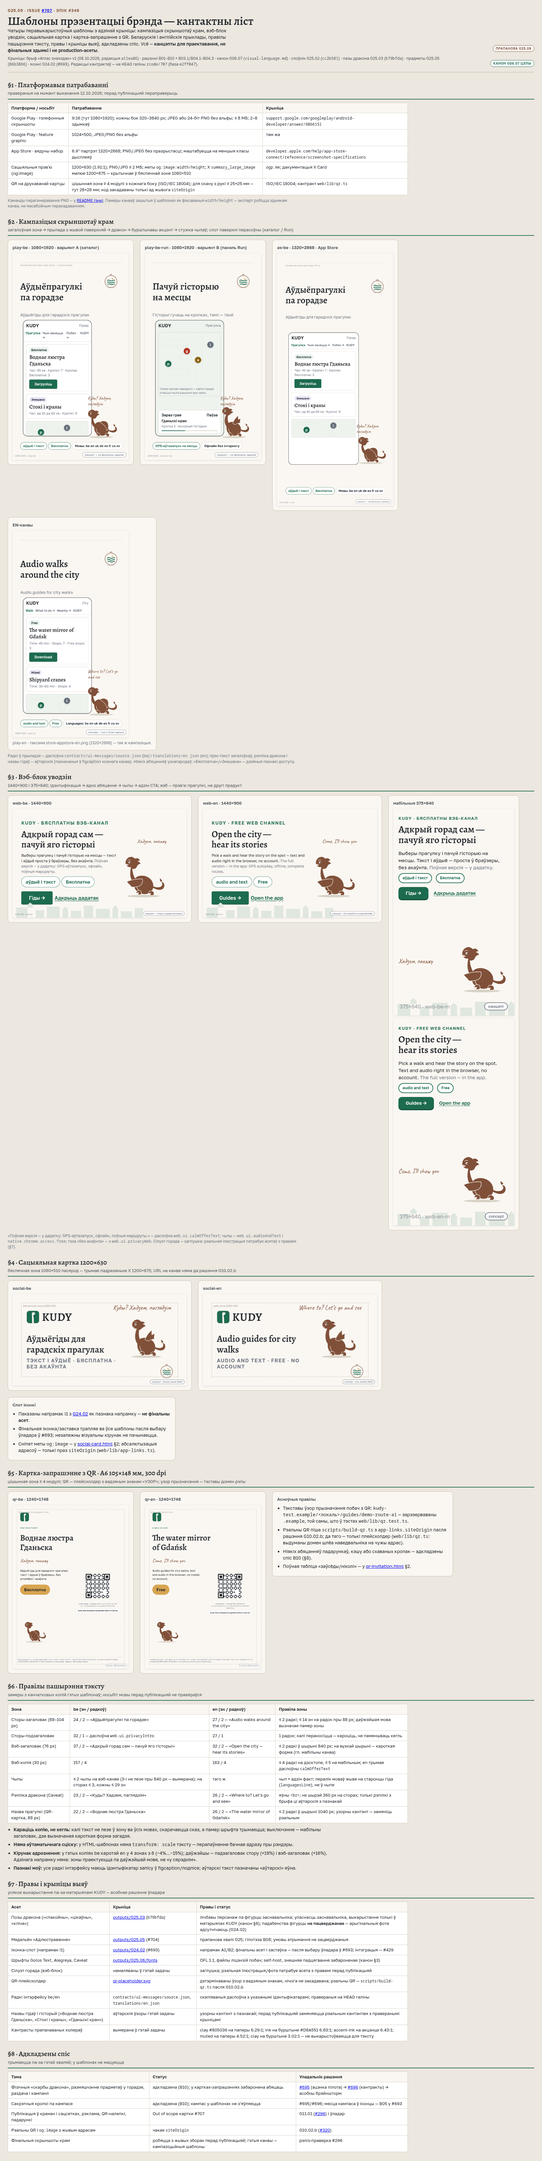
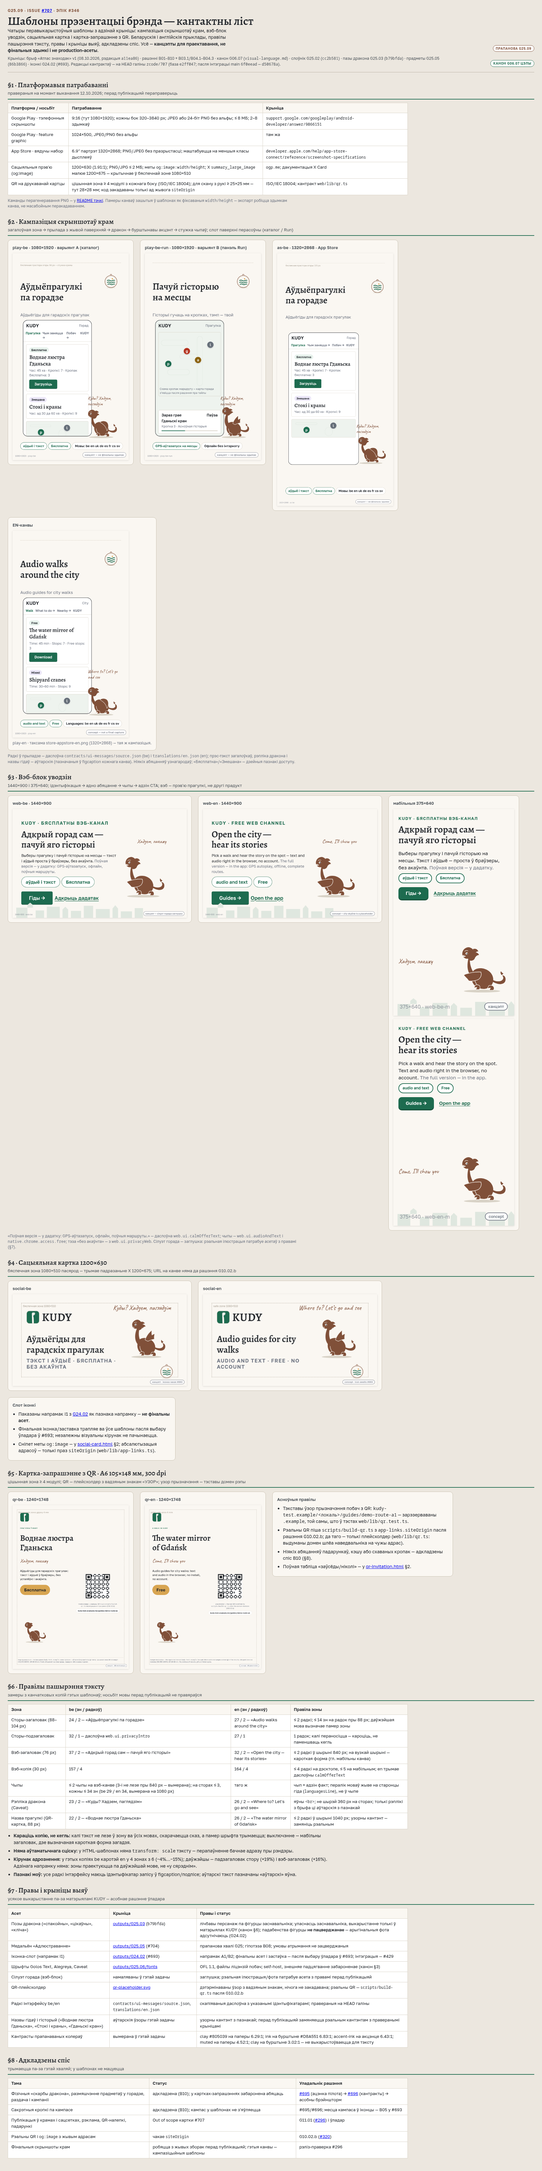
G25.09: review fixes - verbatim labels, contract id, measured chip bound, base note (PR review 741)

diff --git a/docs/design/brand/outputs/G25.09/contact-sheet.html b/docs/design/brand/outputs/G25.09/contact-sheet.html
@@ -45,7 +45,7 @@ ul.rules li{margin-bottom:6px}
       <div class="eyebrow">G25.09 · issue <a href="https://github.com/vokhandcrafts/KUDY/issues/707">#707</a> · эпік #346</div>
       <h1>Шаблоны прэзентацыі брэнда — кантактны ліст</h1>
       <p>Чатыры перавыкарыстоўныя шаблоны з адзінай крыніцы: кампазіцыя скрыншотаў крам, вэб-блок уводзін, сацыяльная картка і картка-запрашэнне з QR. Беларускія і англійскія прыклады, правілы пашырэння тэксту, правы і крыніцы выяў, адкладзены спіс. Усё — <b>канцэпты для праектавання, не фінальныя здымкі і не production-асеты</b>.</p>
-      <div class="src">Крыніцы: брыф «Атлас знаходак» v1 (08.10.2026, рэдакцыя <code>a11ea86</code>) · рашэнні B01–B10 + B03.1/B04.1–B04.3 · канон G06.07 (<code>visual-language.md</code>) · слоўнік G25.02 (<code>cc2b581</code>) · пазы дракона G25.03 (<code>b79bfda</code>) · прадметы G25.05 (<code>86b3866</code>) · іконкі G24.02 (#693). Редакцыі кантрактаў — на HEAD галіны <code>zcode/707</code> (база <code>e2ff047</code>).</div>
+      <div class="src">Крыніцы: брыф «Атлас знаходак» v1 (08.10.2026, рэдакцыя <code>a11ea86</code>) · рашэнні B01–B10 + B03.1/B04.1–B04.3 · канон G06.07 (<code>visual-language.md</code>) · слоўнік G25.02 (<code>cc2b581</code>) · пазы дракона G25.03 (<code>b79bfda</code>) · прадметы G25.05 (<code>86b3866</code>) · іконкі G24.02 (#693). Редакцыі кантрактаў — на HEAD галіны <code>zcode/707</code> (база <code>e2ff047</code>; пасля інтэграцыі main <code>6f0eead</code> — <code>d50678a</code>).</div>
     </div>
     <div style="text-align:right;min-width:220px">
       <span class="tag prop">прапанова G25.09</span><br><br>
@@ -131,8 +131,8 @@ ul.rules li{margin-bottom:6px}
       <tr><td>Сторы-загаловак (88–104 px)</td><td>24 / 2 — «Аўдыёпрагулкі па горадзе»</td><td>27 / 2 — «Audio walks around the city»</td><td>≤ 2 радкі; ≤ 14 зн на радок пры 88 px; даўжэйшая мова вызначае памер зоны</td></tr>
       <tr><td>Сторы-подзагаловак</td><td>32 / 1 — даслоўна <code>web.ui.privacyIntro</code></td><td>27 / 1</td><td>1 радок; калі пераносіцца — кароціць, не паменшваць кегль</td></tr>
       <tr><td>Вэб-загаловак (76 px)</td><td>37 / 2 — «Адкрый горад сам — пачуй яго гісторыі»</td><td>32 / 2 — «Open the city — hear its stories»</td><td>≤ 2 радкі ў шырыні 840 px; на вузкай шырыні — кароткая форма (гл. мабільны канва)</td></tr>
-      <tr><td>Вэб-копія (30 px)</td><td>157 / 4</td><td>163 / 4</td><td>≤ 4 радкі на дэсктопе, ≤ 5 на мабільным; en трымае даслоўны <code>calmOfferText</code></td></tr>
-      <tr><td>Чыпы</td><td>≤ 2 чыпы на вэб-канве (3-і не лезе пры 840 px — вымерана); на сторах ≤ 3, кожны ≤ 29 зн</td><td>таго ж</td><td>чып = адзін факт; пералік моваў жыве на старонцы гіда (<code>languagesLine</code>), не ў чыпе</td></tr>
+      <tr><td>Вэб-копія (30 px)</td><td>157 / 4</td><td>164 / 4</td><td>≤ 4 радкі на дэсктопе, ≤ 5 на мабільным; en трымае даслоўны <code>calmOfferText</code></td></tr>
+      <tr><td>Чыпы</td><td>≤ 2 чыпы на вэб-канве (3-і не лезе пры 840 px — вымерана); на сторах ≤ 3, кожны ≤ 34 зн (be 29 / en 34, вымерана на 1080 px)</td><td>таго ж</td><td>чып = адзін факт; пералік моваў жыве на старонцы гіда (<code>languagesLine</code>), не ў чыпе</td></tr>
       <tr><td>Рэпліка дракона (Caveat)</td><td>23 / 2 — «Куды? Хадзем, паглядзім»</td><td>26 / 2 — «Where to? Let's go and see»</td><td>яўны <code>&lt;br&gt;</code>; не шырэй 360 px на сторах; толькі рэплікі з брыфа ці аўтарскія з пазнакай</td></tr>
       <tr><td>Назва прагулкі (QR-картка, 88 px)</td><td>22 / 2 — «Воднае люстра Гданьска»</td><td>26 / 2 — «The water mirror of Gdańsk»</td><td>≤ 2 радкі ў шырыні 1040 px; узорны кантэнт — замяніць рэальным</td></tr>
     </table>

diff --git a/docs/design/brand/outputs/G25.09/web-intro.html b/docs/design/brand/outputs/G25.09/web-intro.html
@@ -81,7 +81,7 @@ figcaption{font-size:12px;color:#4c5359;margin-top:6px;max-width:520px}
           <div class="c-dim">1440×900 · web-be</div>
           <div class="c-tag">канцэпт — сілуэт горада заглушка</div>
         </div>
-        <figcaption>Загаловак — аўтарскі. «Поўная версія — у дадатку: GPS-аўтазапуск, офлайн, поўныя маршруты.» — даслоўна <code>web.ui.calmOfferText</code>; тэза «без акаўнта» — з <code>web.ui.privacyWeb</code> («Бясплатны вэб-канал не збірае акаўнтаў»). Чыпы (на гэтай шырыні ≤ 2): <code>web.ui.audioAndText</code>, <code>native.chrome.access.free</code>. Факт васьмі UI-моваў (R11: be en uk de es fr cs sv) на блок не выносіцца — поўны пералік жыве на старонцы гіда (<code>web.ui.languagesLine</code>). CTA: <code>native.chrome.guidesLink</code> і <code>web.ui.calmOfferCta</code>. Рэпліка дракона — даслоўна брыф §Сутнасць.</figcaption>
+        <figcaption>Загаловак — аўтарскі. «Поўная версія — у дадатку: GPS-аўтазапуск, офлайн, поўныя маршруты.» — даслоўна <code>web.ui.calmOfferText</code>; тэза «без акаўнта» — з <code>web.ui.privacyWeb</code> («Бясплатны вэб-канал не збірае акаўнтаў»). Чыпы (на гэтай шырыні ≤ 2): <code>web.ui.audioAndText</code>, <code>native.chrome.access.free</code>. Факт васьмі UI-моваў (R11: be en uk de es fr cs sv) на блок не выносіцца — поўны пералік жыве на старонцы гіда (<code>native.chrome.languagesLine</code>). CTA: <code>native.chrome.guidesLink</code> і <code>web.ui.calmOfferCta</code>. Рэпліка дракона — даслоўна брыф §Сутнасць.</figcaption>
       </figure>
       <figure>
         <div class="canvas" id="web-en" style="width:1440px;height:900px;font-size:76px">
@@ -136,7 +136,7 @@ figcaption{font-size:12px;color:#4c5359;margin-top:6px;max-width:520px}
           <div class="c-dim">375×640 · web-be-m</div>
           <div class="c-tag" style="font-size:12px;padding:2px 10px">канцэпт</div>
         </div>
-        <figcaption>Мабільны канва: мовы-чып апушчаны (на вузкай шырыні пераносіцца на другі радок — правілы пашырэння тэксту §6 ліста), палітра і парадак зон тыя ж.</figcaption>
+        <figcaption>Мабільны канва: мовы-чып апушчаны (на вузкай шырыні пераносіцца на другі радок — правілы пашырэння тэксту §6 ліста), палітра і парадак зон тыя ж. Прапанова пра дадатак скарочана да кароткай формы («Поўная версія — у дадатку») для вузкай шырыні.</figcaption>
       </figure>
       <figure>
         <div class="canvas" id="web-en-m" style="width:375px;height:640px;font-size:26px">
@@ -156,7 +156,7 @@ figcaption{font-size:12px;color:#4c5359;margin-top:6px;max-width:520px}
           <div class="c-dim">375×640 · web-en-m</div>
           <div class="c-tag" style="font-size:12px;padding:2px 10px">concept</div>
         </div>
-        <figcaption>EN-мабільны: загаловак скарочаны супраць настольнага («Open the city — hear its stories») паводле правіла пашырэння: два радкі максімум, кароткая форма для вузкай шырыні.</figcaption>
+        <figcaption>EN-мабільны: загаловак скарочаны супраць настольнага («Open the city — hear its stories») паводле правіла пашырэння: два радкі максімум, кароткая форма для вузкай шырыні. Прапанова пра дадатак таксама скарочана да кароткай формы («The full version — in the app»).</figcaption>
       </figure>
     </div>
   </section>

diff --git a/docs/design/brand/outputs/G25.09/store-screens.html b/docs/design/brand/outputs/G25.09/store-screens.html
@@ -127,7 +127,7 @@ figcaption{font-size:12px;color:#4c5359;margin-top:6px;max-width:420px}
           <div class="c-dim">1080×1920 · play-be</div>
           <div class="c-tag">канцэпт — не фінальны здымак</div>
         </div>
-        <figcaption>Прэс-тэкст загалоўка і падзагаловак — аўтарскія; падзагаловак трымае даслоўны радок <code>web.ui.privacyIntro</code> «Аўдыёгіды для гарадскіх прагулак». Рэпліка дракона — даслоўна формула брыфа §Сутнасць. Назвы гідаў у картках — аўтарскія ўзоры кантэнту (пазначаны ў §7 правах).</figcaption>
+        <figcaption>Прэс-тэкст загалоўка і падзагаловак — аўтарскія; падзагаловак — урэзка з <code>web.ui.privacyIntro</code> («Аўдыёгіды для гарадскіх прагулак»; запіс пачынаецца «KUDY — …» і мае хвост пра старонку). Рэпліка дракона — даслоўна формула брыфа §Сутнасць. Назвы гідаў у картках — аўтарскія ўзоры кантэнту (пазначаны ў §7 правах).</figcaption>
       </figure>
     </div>
   </section>
@@ -214,7 +214,7 @@ figcaption{font-size:12px;color:#4c5359;margin-top:6px;max-width:420px}
           <div class="c-dim">1320×2868 · as-be</div>
           <div class="c-tag">канцэпт — не фінальны здымак</div>
         </div>
-        <figcaption>Тая ж кампазіцыя, шырэйшы канва: бяспечная прастора згоры 120 px, загалоўкавая зона да 900 px, ніжняя стужка чыпаў на 130 px. Уся аўтарская копія — тая ж, што §2, без перапісвання.</figcaption>
+        <figcaption>Тая ж кампазіцыя, шырэйшы канва: бяспечная прастора згоры 120 px, загалоўкавая зона да 900 px, ніжняя стужка чыпаў на 130 px. Уся аўтарская копія — тая ж, што §2, без перапісвання; падзагаловак — урэзка з <code>web.ui.privacyIntro</code>, як у §2.</figcaption>
       </figure>
       <figure>
         <div class="canvas" id="as-en" style="width:1320px;height:2868px;font-size:34px">

diff --git a/docs/design/brand/outputs/G25.09/qr-invitation.html b/docs/design/brand/outputs/G25.09/qr-invitation.html
@@ -71,7 +71,7 @@ figcaption{font-size:12px;color:#4c5359;margin-top:6px;max-width:560px}
           <img src="../G25.03/pose-calm.svg" alt="Дракон, поза «спакойны»" style="position:absolute;left:80px;bottom:260px;width:300px;height:300px"><div class="q-foot">Узор прызначэння — тэставы домен <code>kudy-test.example</code>; назва прагулкі — аўтарскі ўзор кантэнту (§7 ліста). Цішынная зона QR ≥ 4 модулі (ISO/IEC 18004); QR 28×28 мм. Ніякіх абяцанняў пра ўзнагароды, падарункі або схаваныя кропкі.</div>
           <div class="s-tag" style="right:20px;bottom:20px">канцэпт · QR плейсхолдер</div>
         </div>
-        <figcaption>«Прагулка ў KUDY» — аўтарскі кікер; «Хадзем, пакажу» — даслоўна брыф §Сутнасць (казка дракона, які ведае месца). «Аўдыёгіды для гарадскіх прагулак» — даслоўна <code>web.ui.privacyIntro</code>; «Бясплатна» — <code>native.chrome.access.free</code> на бурштыне B04.2 з ink-тэкстам 6.83:1. Слот іконкі — напрамак I1 G24.02, фінальны асет пасля #693.</figcaption>
+        <figcaption>«Прагулка ў KUDY» — аўтарскі кікер; «Хадзем, пакажу» — даслоўна брыф §Сутнасць (казка дракона, які ведае месца). «Аўдыёгіды для гарадскіх прагулак» — урэзка з <code>web.ui.privacyIntro</code> (запіс пачынаецца «KUDY — …» і мае хвост пра старонку); «Бясплатна» — <code>native.chrome.access.free</code> на бурштыне B04.2 з ink-тэкстам 6.83:1. Слот іконкі — напрамак I1 G24.02, фінальны асет пасля #693.</figcaption>
       </figure>
       <figure>
         <div class="canvas" id="qr-en" style="width:1240px;height:1748px;font-size:56px">

diff --git a/docs/agent-tasks/results/G25.09.md b/docs/agent-tasks/results/G25.09.md
@@ -1,6 +1,6 @@
 # G25.09 — Шаблоны прэзентацыі брэнда — вынік
 
-Issue: [#707](https://github.com/vokhandcrafts/KUDY/issues/707) · Эпік: [#346](https://github.com/vokhandcrafts/KUDY/issues/346) · Дата: 2026-10-12 · Выканаўца: zcode (GLM-5.3-Flash), сэсія `sess_6164c4fe`, галіна `zcode/707` (база main `e2ff047`). Клейм: 2026-10-11T23:01:40Z, [каментар](https://github.com/vokhandcrafts/KUDY/issues/707#issuecomment-6114886939).
+Issue: [#707](https://github.com/vokhandcrafts/KUDY/issues/707) · Эпік: [#346](https://github.com/vokhandcrafts/KUDY/issues/346) · Дата: 2026-10-12 · Выканаўца: zcode (GLM-5.3-Flash), сэсія `sess_6164c4fe`, галіна `zcode/707` (база main `e2ff047`; пасля інтэграцыі main `6f0eead` — `d50678a`). Клейм: 2026-10-11T23:01:40Z, [каментар](https://github.com/vokhandcrafts/KUDY/issues/707#issuecomment-6114886939).
 
 ## Крыніцы дызайну (рэвізіі)
 
@@ -17,7 +17,7 @@ Issue: [#707](https://github.com/vokhandcrafts/KUDY/issues/707) · Эпік: [#3
 ## Пакрыццё крытэраў карткі
 
 1. **Чатыры шаблоны з агульнай палітры, тыпаграфікі, кіта дракона і слоўніка; патрабаванні платформаў правераныя на момант выканання** — [кантактны ліст §1](../../design/brand/outputs/G25.09/contact-sheet.html): табліца з праверанымі 12.10.2026 значэннямі і крыніцамі — Google Play (9:16, 320–3840 px, JPEG/24-біт PNG без альфы, ≤ 8 МБ, 2–8 здымкаў; feature graphic 1024×500), App Store (6.9″ 1320×2868 вядучы, без празрыстасці), og:image 1200×630 + мета памераў, QR (цішынная зона ≥ 4 модулі паводле ISO/IEC 18004; 28×28 мм для скану з рукі). Кампазіцыя стору — адзін складнік з перасоўным слотам паверхні (каталог / панэль Run): play-be і play-be-run на адным канве 1080×1920. Усе значэнні — канон G06.07; гліна/бурштын — пазнакі прапановаў B04.1/B04.2; дракон толькі як твар (канон §6).
-2. **be/en прыклады + правілы пашырэння тэксту; дзейныя магчымасці; канцэпты пазначаныя; QR вызначае ўзорнае прызначэнне без абяцанняў** — усе канвы маюць be- і en-версіі (кантактны ліст §2–§5); радкі інтэрфейсу даслоўна са слоўніка з ідэнтыфікатарамі ў figcaption, аўтарскі тэкст пазначаны. [§6 лісту](../../design/brand/outputs/G25.09/contact-sheet.html): замеры канчатковых копій (store 24/27 зн; sub 32/27; вэб-загаловак 37/32; копія 157/164; рэпліка 23/26; QR-назва 22/26), правілы зон і правіла «караціць копію, не кегль». Кожны канва мае вуглавую пазнаку «канцэпт — не фінальны здымак» / «concept — not a final capture». QR: плейсхолдер з вадзяным знакам «УЗОР» (не скануецца), тэкставы ўзор прызначэння `kudy-test.example/<локаль>/guides/demo-route-a1` (зарэзерваваны `.example`, той самы што ў тэстах), на картцы і ў §2 шаблону — забарона абяцанняў падарункаў/кэшу/«калектуй усё».
+2. **be/en прыклады + правілы пашырэння тэксту; дзейныя магчымасці; канцэпты пазначаныя; QR вызначае ўзорнае прызначэнне без абяцанняў** — усе канвы маюць be- і en-версіі (кантактны ліст §2–§5); радкі інтэрфейсу даслоўна са слоўніка з ідэнтыфікатарамі ў figcaption, аўтарскі тэкст пазначаны. [§6 лісту](../../design/brand/outputs/G25.09/contact-sheet.html): замеры канчатковых копій (store 24/27 зн; sub 32/27 (урэзка з privacyIntro); вэб-загаловак 37/32; копія 157/164; рэпліка 23/26; QR-назва 22/26), правілы зон і правіла «караціць копію, не кегль». Кожны канва мае вуглавую пазнаку «канцэпт — не фінальны здымак» / «concept — not a final capture». QR: плейсхолдер з вадзяным знакам «УЗОР» (не скануецца), тэкставы ўзор прызначэння `kudy-test.example/<локаль>/guides/demo-route-a1` (зарэзерваваны `.example`, той самы што ў тэстах), на картцы і ў §2 шаблону — забарона абяцанняў падарункаў/кэшу/«калектуй усё».
 3. **Рэдагуемыя крыніцы + растры з памерамі, бяспечнымі прасторамі, кантрастамі, правамі і крыніцамі выяў; слот іконкі спасылаецца, новы кірунак не пачаўся** — крыніцы: HTML/CSS з фіксаванымі канвамі і рэжымам экспарту `?only=<id>` (каманды ў [README](../../design/brand/outputs/G25.09/README.md)); 13 PNG у канчатковых памерах крам/OG/A6. Бяспечныя прасторы: 96/120 px згоры на сторах, 1080×510 пасярод OG (падразаньне X), 4 мм друку на A6 — усё намаляванае пунктырам на канвах. Кантрасты вымераныя і запісаныя (§7 лісту): clay на паперы 6.29:1, ink на бурштыне 6.83:1, accent-ink на акцэнце 6.43:1, muted 4.52:1, clay на бурштыне 3.02:1 (не ўжываецца). Правы і крыніцы — табліца §7 лісту (позы/медальён/іконка/шрыфты OFL/заглушка горада/узорны кантэнт). Іконка — слот з <a href="../../design/brand/outputs/G24.02/compare.html">G24.02</a> і пазнакай «чакае #693».
 4. **Фізічныя кампаніі і кампас — у адкладзеным спісе са спасылкамі на #695** — [§8 лісту](../../design/brand/outputs/G25.09/contact-sheet.html): скарбы/размяшчэнне/раздача і сакрэтныя кропкі па кампасе — B10, уладары #695 → #696; на QR-картцы забароненыя абяцанні; кампас у шаблонах не фігуруе; публікацыя/рэклама/налепкі — Out of scope #707; рэальны QR і og:image — пасля G10.02.b (#320); фінальныя здымкі крам — з жывых зборак (#296).
 
